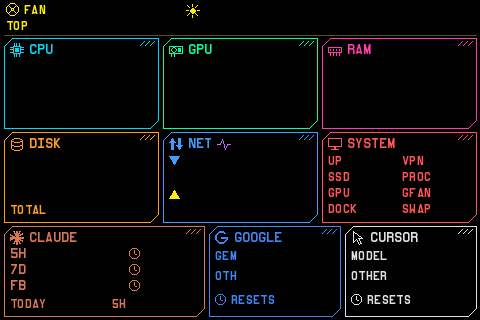
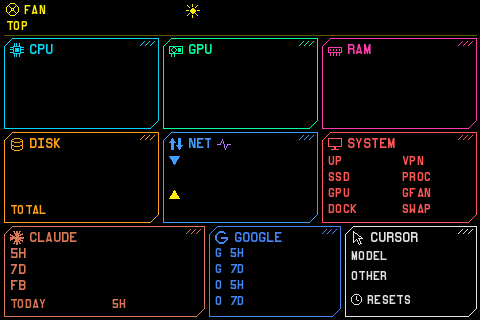
Show weekly and 5-hour limits in the Google panel of Cyberpunk-landscape theme
- GOOGLE panel: four rows (Gemini 5H / 7D, other models 5H / 7D), each with
  the quota used and the time left before its reset, largest unit only.
- Values now come from the quota summary endpoint of Google Code Assist,
  asked with the Antigravity CLI client name: it is the only one that gets
  the Gemini group. A group missing from the answer is shown as '--'.
- CLAUDE panel: remove the clock icons beside the reset countdowns.

Changed region(s): [[0.4375, 0.75, 0.5938, 0.9688], [0.25, 0.875, 0.2812, 0.9062]]

diff --git a/library/sensors/sensors_custom.py b/library/sensors/sensors_custom.py
@@ -148,6 +148,21 @@ def _format_countdown(timestamp: float) -> str:
     return f"{text:>7}"
 
 
+def _format_countdown_short(timestamp: float) -> str:
+    # Fixed-width (3 chars) time left before the given timestamp, largest unit only: days, hours or minutes
+    # e.g. ' 5d', '23h', ' 7m'
+    if timestamp is None or math.isnan(timestamp):
+        return " --"
+    minutes = max(0, int((timestamp - time.time()) / 60))
+    if minutes >= 24 * 60:
+        text = f"{minutes // 1440}d"
+    elif minutes >= 60:
+        text = f"{minutes // 60}h"
+    else:
+        text = f"{minutes}m"
+    return f"{text:>3}"
+
+
 def _claude_dir() -> Path:
     return Path(os.environ.get("CLAUDE_CONFIG_DIR", Path.home() / ".claude"))
 
@@ -354,18 +369,21 @@ class _CursorPlan:
 
 
 class _GooglePlan:
-    # Reads the Google AI plan quotas of Antigravity (Gemini models and other models, in % used of the current window)
-    # from Google Code Assist endpoint, using the token stored by Antigravity in the system keyring (Linux, macOS).
-    # The token is only ever sent to cloudcode-pa.googleapis.com.
+    # Reads the Google AI plan quotas of Antigravity (5-hour and weekly limits for Gemini models and other models,
+    # in % used) from Google Code Assist endpoint, using the token stored by Antigravity in the system keyring
+    # (Linux, macOS). The token is only ever sent to cloudcode-pa.googleapis.com.
     # The token is not refreshed here: once it has expired the last values are kept until their window resets, as
     # Antigravity renews the token whenever it is used.
     # This endpoint is not documented: values are shown as '--' if it is unavailable.
-    URL = "https://daily-cloudcode-pa.googleapis.com/v1internal:fetchAvailableModels"
+    URL = "https://daily-cloudcode-pa.googleapis.com/v1internal:retrieveUserQuotaSummary"
+    # Google only returns the Gemini group to the Antigravity CLI client name
+    USER_AGENT = "antigravity/cli/1.5.14 (linux/amd64)"
+    BUCKETS = ("gemini-5h", "gemini-weekly", "3p-5h", "3p-weekly")
     TTL = 120  # seconds between two requests
     TTL_ERROR = 900  # seconds to wait after a failed request
     TTL_EXPIRED = 30  # seconds before reading the keyring again while the token is expired (no request is sent)
     _next = 0.0
-    _pools = ((math.nan, math.nan), (math.nan, math.nan))  # (% used, reset time) for Gemini models and other models
+    _pools = ((math.nan, math.nan),) * 4  # (% used, reset time) for gemini-5h, gemini-weekly, 3p-5h, 3p-weekly
 
     class _TokenExpired(Exception):
         pass
@@ -396,25 +414,29 @@ class _GooglePlan:
             try:
                 request = urllib.request.Request(cls.URL, data=b"{}", headers={
                     "Authorization": "Bearer " + cls._token(), "Content-Type": "application/json",
-                    "User-Agent": "antigravity"})
+                    "User-Agent": cls.USER_AGENT})
                 with urllib.request.urlopen(request, timeout=5) as response:
                     data = json.loads(response.read().decode("utf-8"))
-                pools = ([], [])
-                for model in data["models"].values():
-                    quota = model.get("quotaInfo") or {}
-                    reset = quota.get("resetTime")
-                    if reset:  # Models without a reset time are not limited
-                        used = 100 * (1 - float(quota.get("remainingFraction", 0)))
-                        reset = datetime.datetime.fromisoformat(reset.replace("Z", "+00:00")).timestamp()
-                        pools[model.get("modelProvider") != "MODEL_PROVIDER_GOOGLE"].append((used, reset))
-                cls._pools = tuple(max(pool, default=(math.nan, math.nan)) for pool in pools)
+                found = {}
+                for group in data["groups"]:
+                    for bucket in group.get("buckets") or ():
+                        bucket_id = bucket.get("bucketId")
+                        if bucket_id in cls.BUCKETS:
+                            remaining = bucket.get("remainingFraction")
+                            reset = bucket.get("resetTime")
+                            used = 100 * (1 - float(remaining)) if remaining is not None else math.nan
+                            reset = (datetime.datetime.fromisoformat(reset.replace("Z", "+00:00")).timestamp()
+                                     if reset else math.nan)
+                            found[bucket_id] = (used, reset)
+                cls._pools = tuple(found.get(bucket_id, (math.nan, math.nan)) for bucket_id in cls.BUCKETS)
                 cls._next = now + cls.TTL
             except cls._TokenExpired:
                 cls._next = now + cls.TTL_EXPIRED
             except (OSError, subprocess.SubprocessError, ValueError, KeyError, TypeError, AttributeError):
                 cls._next = now + cls.TTL_ERROR
         # A window that has reset since the last successful request is back to 0 %
-        return tuple((0.0, math.nan) if now >= reset else (used, reset) for used, reset in cls._pools)
+        return tuple((0.0, math.nan) if not math.isnan(used) and now >= reset else (used, reset)
+                     for used, reset in cls._pools)
 
 
 class _Weather:
@@ -532,7 +554,7 @@ class CursorReset(_SimpleData):
         return _format_countdown(_CursorPlan.get()[2])
 
 
-class GoogleGeminiPercent(_SimpleData):
+class GoogleGeminiSessionPercent(_SimpleData):
     def as_numeric(self) -> float:
         return _GooglePlan.get()[0][0]
 
@@ -540,7 +562,12 @@ class GoogleGeminiPercent(_SimpleData):
         return _format_percent(_GooglePlan.get()[0][0])
 
 
-class GoogleOtherPercent(_SimpleData):
+class GoogleGeminiSessionReset(_SimpleData):
+    def as_string(self) -> str:
+        return _format_countdown_short(_GooglePlan.get()[0][1])
+
+
+class GoogleGeminiWeekPercent(_SimpleData):
     def as_numeric(self) -> float:
         return _GooglePlan.get()[1][0]
 
@@ -548,11 +575,35 @@ class GoogleOtherPercent(_SimpleData):
         return _format_percent(_GooglePlan.get()[1][0])
 
 
-class GoogleReset(_SimpleData):
+class GoogleGeminiWeekReset(_SimpleData):
     def as_string(self) -> str:
-        # Next reset among the two windows
-        return _format_countdown(min((reset for _, reset in _GooglePlan.get() if not math.isnan(reset)),
-                                     default=math.nan))
+        return _format_countdown_short(_GooglePlan.get()[1][1])
+
+
+class GoogleOtherSessionPercent(_SimpleData):
+    def as_numeric(self) -> float:
+        return _GooglePlan.get()[2][0]
+
+    def as_string(self) -> str:
+        return _format_percent(_GooglePlan.get()[2][0])
+
+
+class GoogleOtherSessionReset(_SimpleData):
+    def as_string(self) -> str:
+        return _format_countdown_short(_GooglePlan.get()[2][1])
+
+
+class GoogleOtherWeekPercent(_SimpleData):
+    def as_numeric(self) -> float:
+        return _GooglePlan.get()[3][0]
+
+    def as_string(self) -> str:
+        return _format_percent(_GooglePlan.get()[3][0])
+
+
+class GoogleOtherWeekReset(_SimpleData):
+    def as_string(self) -> str:
+        return _format_countdown_short(_GooglePlan.get()[3][1])
 
 
 class WeatherTemperature(_SimpleData):

diff --git a/res/themes/Cyberpunk-landscape/make_background.py b/res/themes/Cyberpunk-landscape/make_background.py
@@ -133,16 +133,19 @@ panel(x, y, 200, H, CLAUDE)
 title(x, y, 'claude', 'CLAUDE', CLAUDE)
 for row, text in enumerate(('5H', '7D', 'FB')):
     d.text((x + 6, y + 22 + row * 16), text, font=f12, fill=CLAUDE)
-    icon('clock', x + 125, y + 22 + row * 16, CLAUDE)
 d.text((x + 6, y + 73), 'TODAY', font=f11, fill=CLAUDE)
 d.text((x + 108, y + 73), '5H', font=f11, fill=CLAUDE)
-for x, name, text, col, rows in ((209, 'google', 'GOOGLE', GOOGLE, ('GEM', 'OTH')),
-                                 (345, 'cursor', 'CURSOR', CURSOR, ('MODEL', 'OTHER'))):
-    panel(x, y, 131, H, col)
-    title(x, y, name, text, col)
-    d.text((x + 6, y + 25), rows[0], font=f11, fill=col)
-    d.text((x + 6, y + 45), rows[1], font=f11, fill=col)
-    icon('clock', x + 6, y + 68, col)
-    d.text((x + 22, y + 69), 'RESETS', font=f11, fill=col)
+x = 209
+panel(x, y, 131, H, GOOGLE)
+title(x, y, 'google', 'GOOGLE', GOOGLE)
+for row, text in enumerate(('G 5H', 'G 7D', 'O 5H', 'O 7D')):
+    d.text((x + 6, y + 22 + row * 16), text, font=f11, fill=GOOGLE)
+x = 345
+panel(x, y, 131, H, CURSOR)
+title(x, y, 'cursor', 'CURSOR', CURSOR)
+d.text((x + 6, y + 25), 'MODEL', font=f11, fill=CURSOR)
+d.text((x + 6, y + 45), 'OTHER', font=f11, fill=CURSOR)
+icon('clock', x + 6, y + 68, CURSOR)
+d.text((x + 22, y + 69), 'RESETS', font=f11, fill=CURSOR)
 
 im.save('res/themes/Cyberpunk-landscape/background.png')
